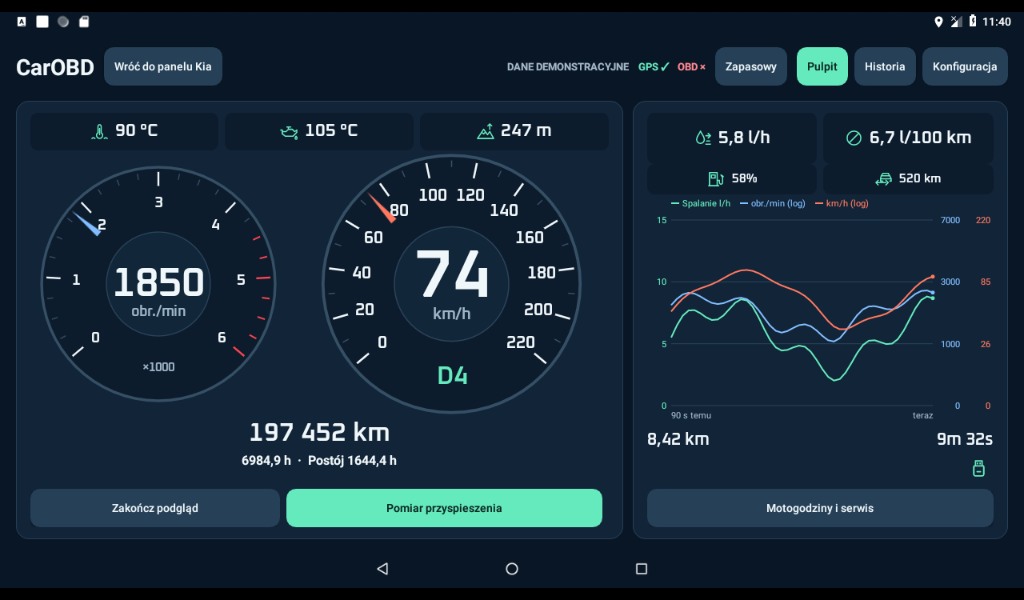
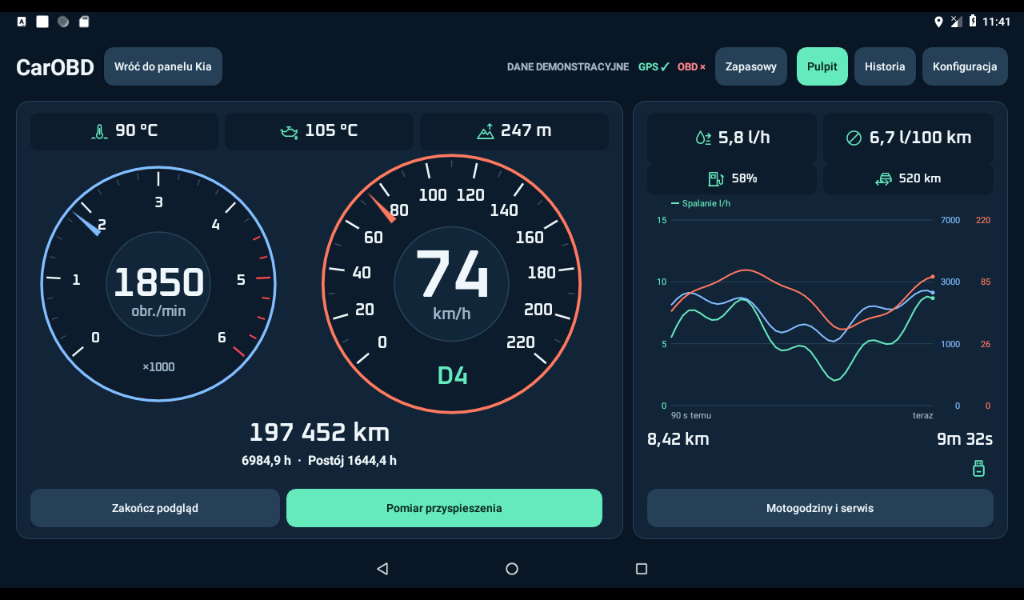
Match gauge rings to chart lines and simplify the legend

diff --git a/android-radio/src/pl/marm/carobd/Instruments.java b/android-radio/src/pl/marm/carobd/Instruments.java
@@ -53,7 +53,7 @@ final class Instruments {
             float x=getWidth()/2f,y=getHeight()/2f,r=Math.min(getWidth()*.46f,getHeight()*heightRatio);
             if (r<=1) return;
             ink.setStyle(Paint.Style.FILL); ink.setColor(FACE); c.drawCircle(x,y,r,ink);
-            ink.setStyle(Paint.Style.STROKE); ink.setColor(TRACK); ink.setStrokeWidth(Math.max(1,r*.023f));
+            ink.setStyle(Paint.Style.STROKE); ink.setColor(accent); ink.setStrokeWidth(Math.max(1,r*.023f));
             c.drawCircle(x,y,r,ink);
             ink.setStyle(Paint.Style.FILL); ink.setColor(CENTER); c.drawCircle(x,y,r*.445f,ink);
             ink.setStyle(Paint.Style.STROKE); ink.setColor(GRID); ink.setStrokeWidth(Math.max(1,r*.009f));
@@ -101,8 +101,7 @@ final class Instruments {
     static final class Fuel extends View {
         private static final int FUEL=0, RPM=1, SPEED=2, SAMPLES=46, PERIOD_MS=2000;
         private static final int[] COLORS={MINT,BLUE,ORANGE};
-        private static final String[] LABELS={"Spalanie l/h","obr./min (log)","km/h (log)"};
-        private static final double[] LIMITS={0,RPM_LIMIT,SPEED_LIMIT}, LOG_UNITS={0,1000,20};
+            private static final double[] LIMITS={0,RPM_LIMIT,SPEED_LIMIT}, LOG_UNITS={0,1000,20};
         private final Paint ink=new Paint(Paint.ANTI_ALIAS_FLAG);
         private final Path trace=new Path();
         private final double[][] values=new double[COLORS.length][SAMPLES];
@@ -152,13 +151,9 @@ final class Instruments {
             for (double v:values[FUEL]) if (Double.isFinite(v)) peak=Math.max(peak,v);
             double fuelScale=Math.ceil(peak/5)*5;
             ink.setStyle(Paint.Style.FILL); ink.setTextSize(11*d); ink.setTextAlign(Paint.Align.LEFT);
-            float legend=left;
-            for (int series=0;series<COLORS.length;series++) {
-                ink.setColor(COLORS[series]); ink.setStrokeWidth(2*d);
-                c.drawLine(legend,11*d,legend+10*d,11*d,ink);
-                c.drawText(LABELS[series],legend+14*d,15*d,ink);
-                legend+=ink.measureText(LABELS[series])+26*d;
-            }
+            ink.setColor(COLORS[FUEL]); ink.setStrokeWidth(2*d);
+            c.drawLine(left,11*d,left+10*d,11*d,ink);
+            c.drawText("Spalanie l/h",left+14*d,15*d,ink);
             ink.setTextAlign(Paint.Align.RIGHT);
             for (int i=0;i<=3;i++) {
                 float fraction=i/3f,y=bottom-(bottom-top)*fraction;

diff --git a/android-radio/build_config.py b/android-radio/build_config.py
@@ -1,4 +1,4 @@
-VERSION="0.3.31"
+VERSION="0.3.32"
 API=34
 MIN_API=27
 BUILD_TOOLS="35.0.0"
